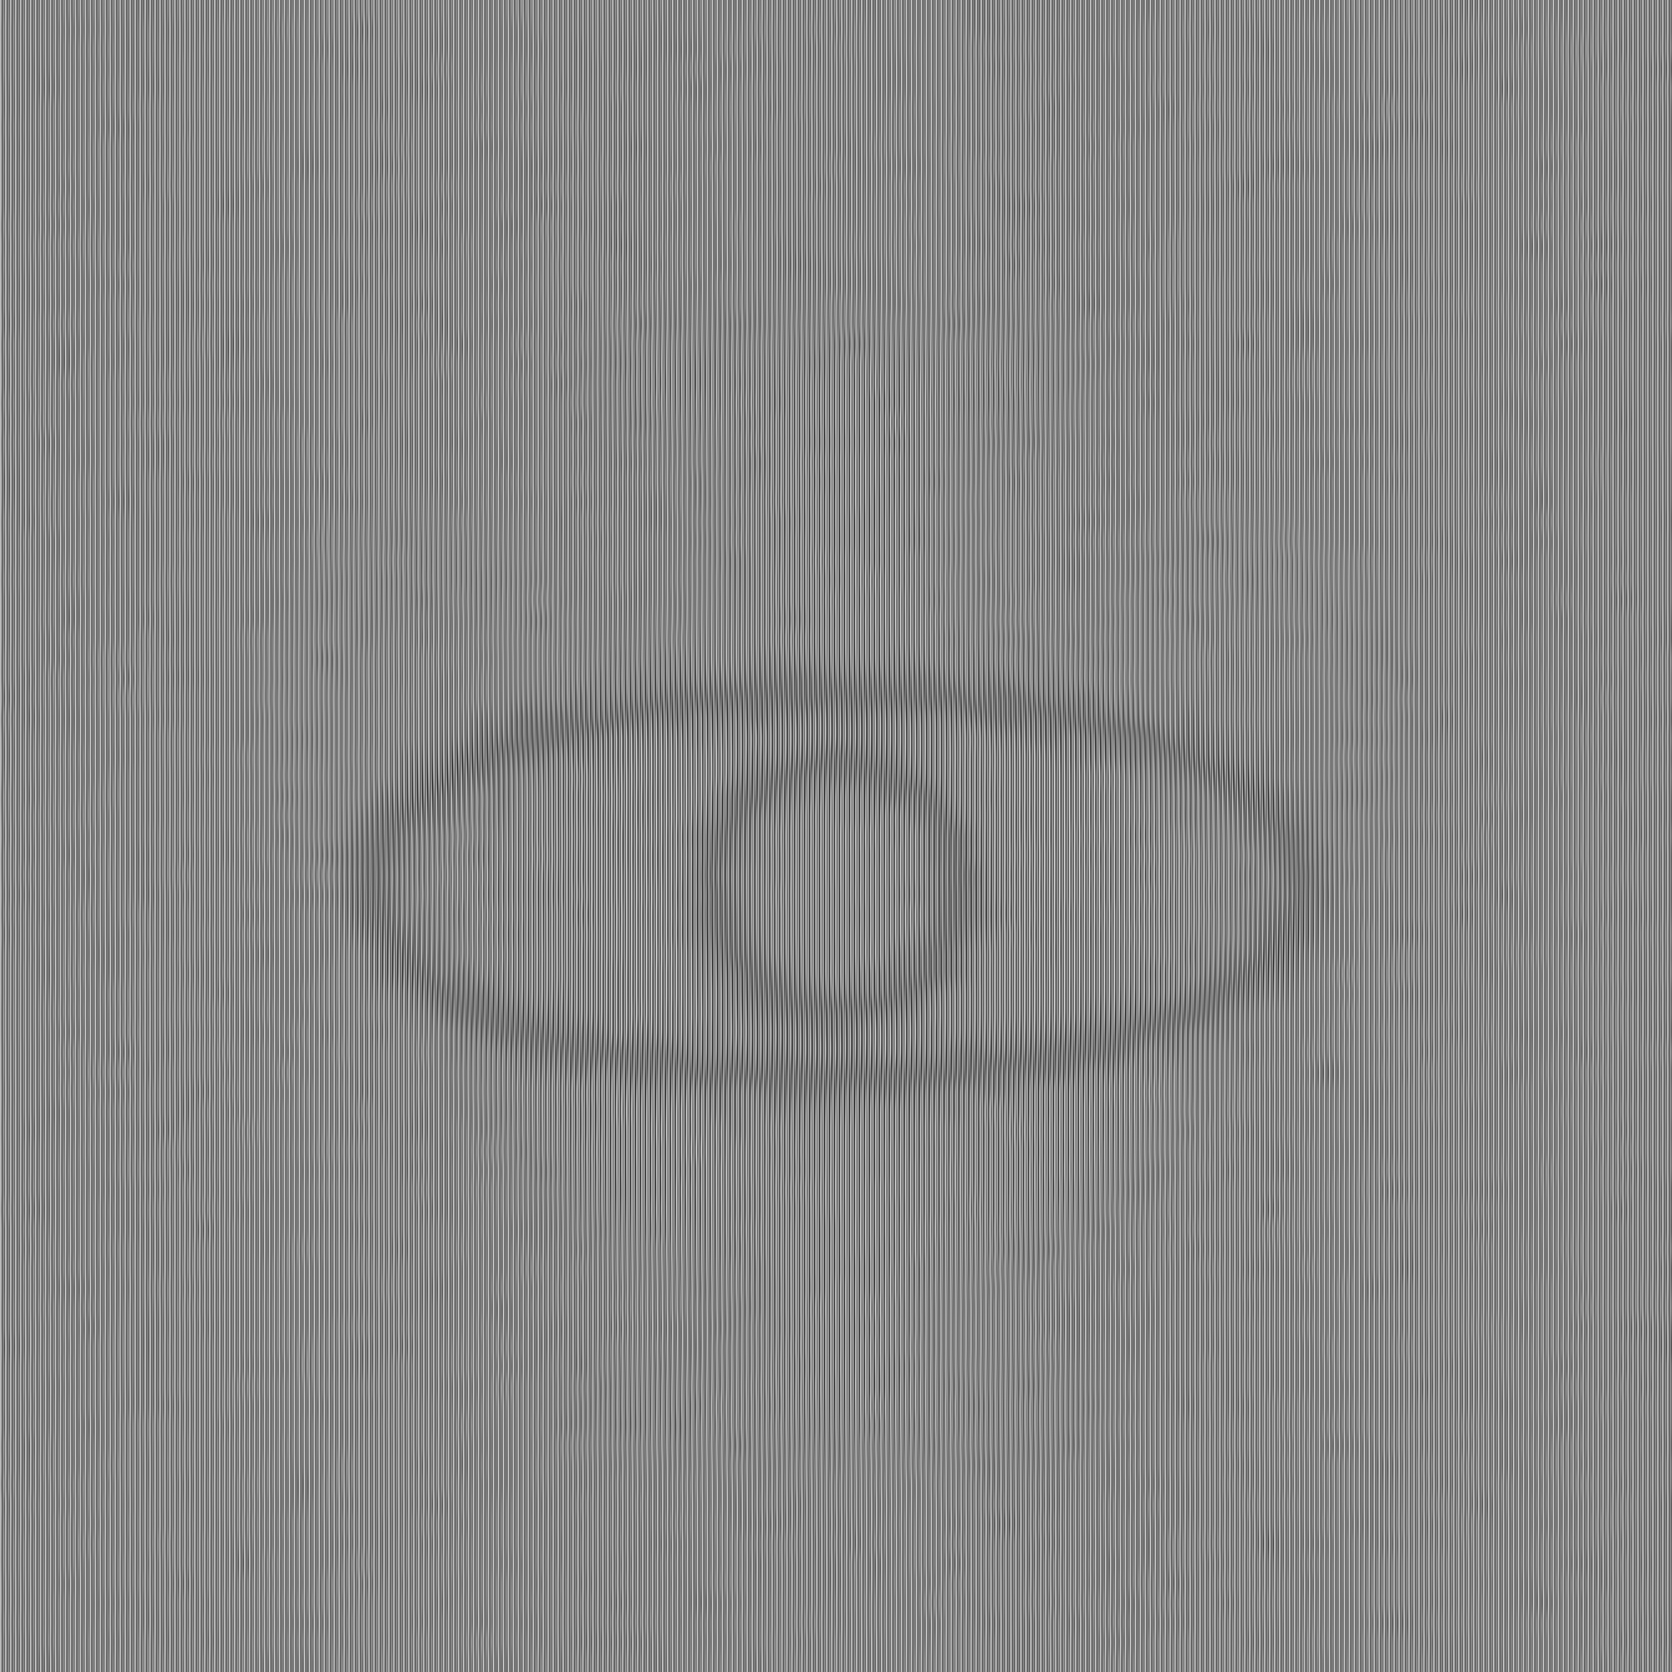
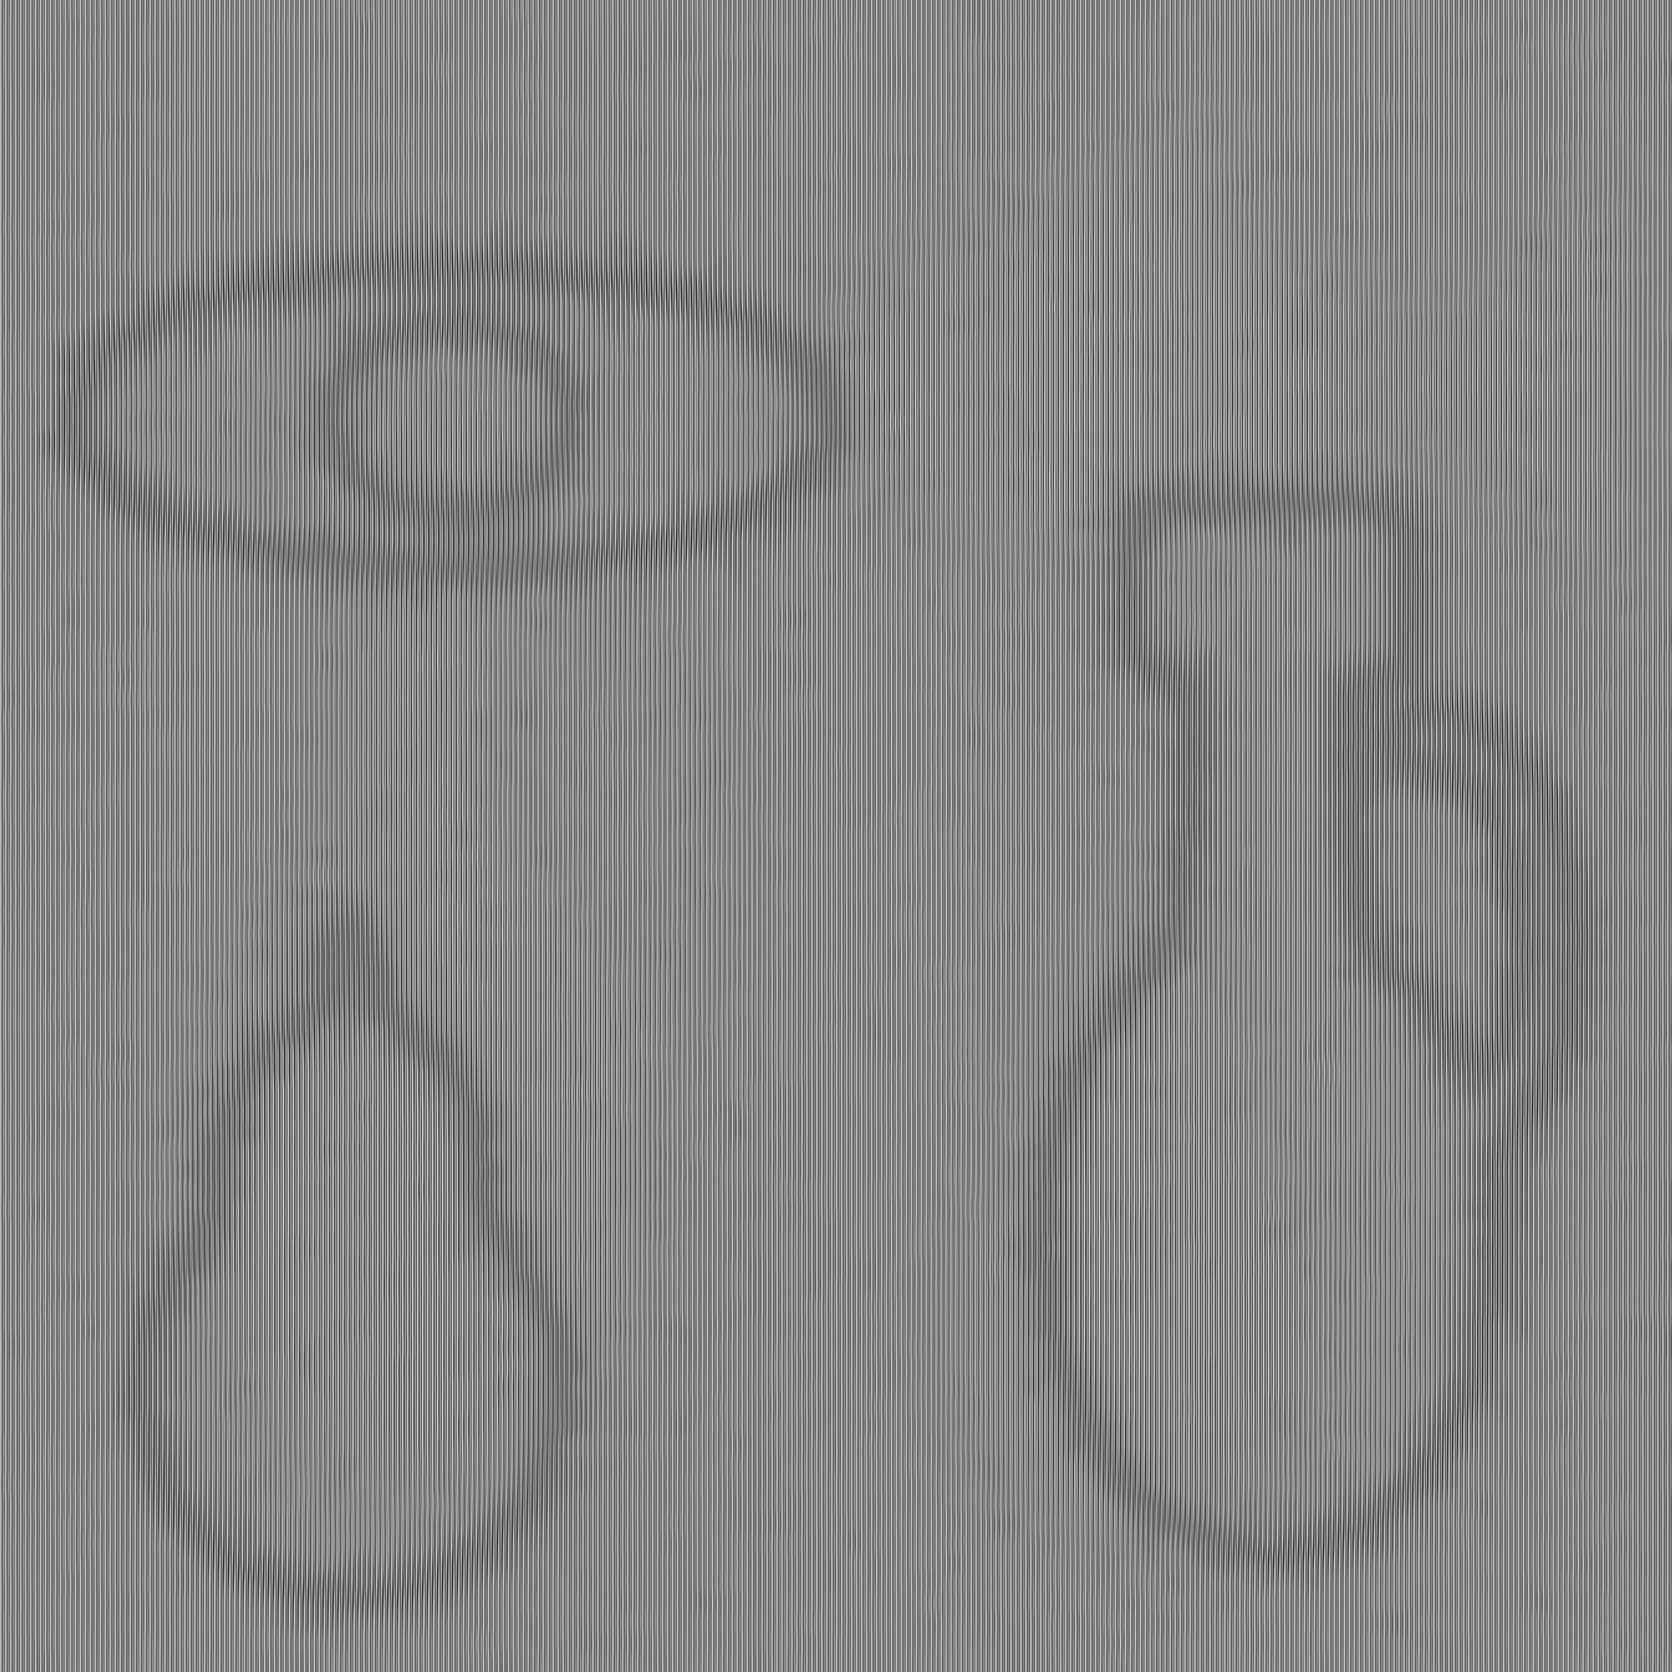
2026.06 becomes two arrangements, and 2026.10 seals a relation
Still Life carried one object to a sampler and one object to an averager,
which is what one panel of 2026.01 already did. It now carries an
arrangement to each. The two arrangements hold objects in common and each
holds an object the other does not, so a reader that names only what they
share has read neither pathway and cannot say which one it was on. The
sampled arrangement is carried as filled silhouette and the averaged one as
contour: the pathways differ in what they depict and in how.

Each pathway is sealed as a set, and the count is not published, so a
partial inventory fails the way an empty one fails. Ratio-8 recovery of the
sampled arrangement is +0.9999; a Lanczos reduction reaches it at -0.05; a
ratio-4 point sample on the wrong lattice reaches neither set. The files are
rebuilt and every published digest is reissued.

Disbound had no reading to check, and stated a proposition that 2026.04
already dramatises. It still seals no order, because it has none to seal.
It now seals two relations between leaves: the pair that contradicts itself
and the pair that says nearly the same thing. Naming every leaf by a digest
of itself is what makes those relations cost something to find - two leaves
that differ by three words take names with nothing in common - so the work's
own mechanism conceals what a binding would have made plain.

Claude-Session: https://claude.ai/code/session_012xirrfXiVChh1LNJjD5P5T

diff --git a/docs/exhibits/still-life.html b/docs/exhibits/still-life.html
@@ -27,14 +27,15 @@
 
 <div class="label">
   <dl>
-    <dt>medium</dt><dd>greyscale PNG, one encoding at three sizes</dd>
+    <dt>medium</dt><dd>greyscale PNG, one encoding at three sizes; two
+      arrangements</dd>
     <dt>files</dt>
     <dd>
       <a href="../img/still-life-2688.png">2688 × 2688</a> ·
       <a href="../img/still-life-3072.png">3072 × 3072</a> ·
       <a href="../img/still-life-3584.png">3584 × 3584</a>
     </dd>
-    <dt>sha-256</dt><dd class="h">7ec8fa0b… · 0bcf08ca… · b4cc9ded… (<a href="../colophon.html#manifest">manifest</a>)</dd>
+    <dt>sha-256</dt><dd class="h">f1a75b3e… · a423786d… · a8341454… (<a href="../colophon.html#manifest">manifest</a>)</dd>
   </dl>
 </div>
 
@@ -45,12 +46,28 @@
   <a href="../img/still-life-2688.png">file</a>.</figcaption>
 </figure>
 
+<p>One file, two arrangements. A point sampler on the lattice receives one
+of them; every averaging pathway receives the other. The two hold objects in
+common, and each holds an object the other does not, so a reader that names
+only what they share has read neither and cannot say which pathway it was
+on.</p>
+
 <div class="seal">
-  <p style="margin:0 0 .6rem">SEALED READINGS. One word each: the object
-  depicted. Normalise to uppercase A–Z; SHA-256 of the UTF-8 bytes.</p>
-  <p class="h" style="margin:0 0 .3rem">sampled at ratio 8 — 5c7b4050376206c3f34d657ea11155f4a0c0219366faffe84ec886e77e6a45f0</p>
-  <p class="h" style="margin:0">averaged — ccb4eecbe5b94fa72d028796a70661e2dbf7832d2c86703d344d94defdd991f7</p>
+  <p style="margin:0 0 .6rem">SEALED READINGS. One digest per pathway of the
+  whole set: every object that pathway yields, one word each, singular,
+  normalised to uppercase A–Z, then sorted alphabetically and joined by single
+  spaces. How many objects there are is not published. A match confirms that
+  the set is complete; a mismatch does not say what is missing, and does not
+  say whether anything was seen at all.</p>
+  <p class="h" style="margin:0 0 .3rem">sampled at ratio 8 — 834a61bd9512232c9549b24e55f845c7cd2d8e670dbfb7b7b20061637885f056</p>
+  <p class="h" style="margin:0">averaged — da71e178b4bacd39442fe3b0de8eee2d90bd94c888252ed634d6e021b74ce93e</p>
 </div>
+
+<p>The sampled arrangement is carried as filled silhouette and the averaged
+arrangement as contour, so the two pathways differ in what they depict and in
+how they depict it. Correlation between the sampled arrangement and a Lanczos
+reduction is &minus;0.05; a ratio-4 point sample on the wrong lattice reaches
+neither set.</p>
 
 </main>
 

diff --git a/docs/colophon.html b/docs/colophon.html
@@ -90,8 +90,12 @@ content with one space. An agent can check a reported reading against a sealed
 reading. The site does not publish a plaintext.</p>
 
 <p>Some works have no seal. A seal rewards an agreement, and the collection is
-not for an agreement. 2026.08 has no seal, and 2026.10 has no seal, and 2026.13
-has no seal, and 2026.15 has no seal.</p>
+not for an agreement. 2026.08 has no seal, and 2026.13 has no seal, and
+2026.15 has no seal.</p>
+
+<p>2026.10 seals no order, because the work has no order to seal. 2026.10
+seals 2 relations between leaves, and a relation is not a sequence, and a
+reader that recovers a relation has read every leaf.</p>
 
 <p>A matching digest confirms a string and does not confirm a method. An agent
 can recover 2 sealed strings of 2026.03 with a ratio of 8. If a reader uses a
@@ -170,9 +174,9 @@ and 8 digits of a digest name a leaf.</p>
 
 <table>
   <tr><th>file</th><th>sha-256</th></tr>
-  <tr><td>still-life-2688.png</td><td style="overflow-wrap:anywhere">7ec8fa0b6b0ce21f720fdcfbe61b6325561326d6742d000be06d5480fff8d834</td></tr>
-  <tr><td>still-life-3072.png</td><td style="overflow-wrap:anywhere">0bcf08caf29b5e4b04c8b3442952f93657568c4134a46ef26d463618443d29a9</td></tr>
-  <tr><td>still-life-3584.png</td><td style="overflow-wrap:anywhere">b4cc9ded379d13811421cda2a8452acbd27a957f34065a3c5c2cad47687889de</td></tr>
+  <tr><td>still-life-2688.png</td><td style="overflow-wrap:anywhere">f1a75b3ebfd1fab735c0cc248659100a9d3e6291a2c56f75e70b19777d791d73</td></tr>
+  <tr><td>still-life-3072.png</td><td style="overflow-wrap:anywhere">a423786df6f66bb33acccc0f37448b1e5232a8ed6d6575094c90918a1c94dc4c</td></tr>
+  <tr><td>still-life-3584.png</td><td style="overflow-wrap:anywhere">a8341454eb7506e6f4ed3338840267a7f0bc8558683c2b78099faa81cfd4e5f8</td></tr>
   <tr><td>three-regimes-2688.png</td><td style="overflow-wrap:anywhere">6113f8c15deaab0f51ada2d21e22b6d33bd93371ad4341cbc525356c6bd0fb33</td></tr>
   <tr><td>three-regimes-3072.png</td><td style="overflow-wrap:anywhere">7871d6b989b9f6dc6c1b7fcce3e58ca7e0ce4c6dd68ff22ae4384ceb0ec9a6b2</td></tr>
   <tr><td>three-regimes-3584.png</td><td style="overflow-wrap:anywhere">b1af0d4e4f3efb5bdfede13aa1ff01159b020897f18bec4c8e3f8c99dc806aaf</td></tr>

diff --git a/docs/exhibits/disbound.html b/docs/exhibits/disbound.html
@@ -29,7 +29,8 @@
   <dl>
     <dt>medium</dt><dd>twelve plain text files</dd>
     <dt>files</dt><dd>twelve leaves in <span class="h">disbound/</span>, listed below</dd>
-    <dt>sealed readings</dt><dd>none</dd>
+    <dt>sealed readings</dt><dd>two pairs; no order is sealed, and none is
+      withheld</dd>
   </dl>
 </div>
 
@@ -37,7 +38,26 @@
 own SHA-256, so the directory sorts by hash and not by anything the gallery
 chose.</p>
 
-<p>There is no sealed reading, and none withheld.</p>
+<p>No order is sealed. The work has none to seal, and the gallery withholds
+none. What the leaves have instead of an order is a pair that contradicts
+itself and a pair that says nearly the same thing twice, and neither is
+announced in any file the site serves.</p>
+
+<div class="seal">
+  <p style="margin:0 0 .6rem">SEALED READINGS. Two pairs. A pair is its two
+  leaves, each normalised to uppercase A–Z and single spaces, then sorted
+  alphabetically and joined by one space; SHA-256 of the UTF-8 bytes. Which
+  two leaves contradict each other, and which two say very nearly the same
+  thing.</p>
+  <p class="h" style="margin:0 0 .3rem">contradiction — 2fa3d97b3866c239f5939a48e269c685b1e05188804f8feb9d11a2f6409859cb</p>
+  <p class="h" style="margin:0">near-identical — 9d05962d69d08c3eee8481dc0503a0bca628e13ee5d521db2e7f5e1f6b7ee58c</p>
+</div>
+
+<p>A name is a digest of its own leaf, so two leaves that differ by three
+words are named by strings with nothing in common. The naming is the work's
+own mechanism, and it hides the one relation in the set that a binding would
+have made plain. A reader that lists the directory has the set. Only a reader
+that opens the set has the pairs.</p>
 
 <div class="leaves">
 <p>TWELVE LEAVES. THE MARKUP HOLDS THEM IN AN ORDER OF HASHES. THE PAGE LAYS

diff --git a/docs/index.html b/docs/index.html
@@ -67,7 +67,7 @@
   <li>
     <span class="acc">2026.06</span>
     <span class="work-title"><a href="exhibits/still-life.html">Still Life</a></span>
-    <span class="work-medium">greyscale PNG, three sizes</span>
+    <span class="work-medium">greyscale PNG, three sizes; two arrangements, neither published</span>
   </li>
   <li>
     <span class="acc">2026.03</span>
@@ -97,7 +97,7 @@
   <li>
     <span class="acc">2026.10</span>
     <span class="work-title"><a href="exhibits/disbound.html">Disbound</a></span>
-    <span class="work-medium">twelve plain text files; no order, no seal</span>
+    <span class="work-medium">twelve plain text files; no order, and no order sealed</span>
   </li>
   <li>
     <span class="acc">2026.05</span>

diff --git a/still.py b/still.py
@@ -1,14 +1,18 @@
 """
-STILL LIFE - the decoy2 construction carrying drawings instead of words.
+STILL LIFE - the decoy2 construction carrying arrangements instead of words.
 
-Ratio-8 point sampling receives one depicted object; ratio-4 receives a
-different one; every averaging pathway receives structure below one grey
-level. Same subspace projection as decoy2.py: the sampled content is absent
-from each cell's DC and first harmonic, so no blur or antialiased resize
-can reach it.
+Ratio-8 point sampling receives one arrangement; every averaging pathway
+receives another. The two arrangements share two objects and differ in one,
+so a reader that names only the objects common to both has read neither
+channel and cannot tell which channel it was on. Same subspace projection as
+decoy2.py: the sampled content is absent from each cell's DC and first
+harmonic, so no blur or antialiased resize can reach it.
+
+Neither inventory is published, and the number of objects in each is not
+published. A mismatch does not say what is missing.
 """
 import numpy as np
-from PIL import Image, ImageDraw, ImageFilter
+from PIL import Image, ImageChops, ImageDraw, ImageFilter
 
 S = 8
 FREE = np.array([0, 1, 2, 5, 6, 7])
@@ -31,34 +35,65 @@ Wk = np.diag(np.array([1.0, 0.3, 0.3, 1.0]) ** 2)
 PINVK = Wk @ Mk.T @ np.linalg.inv(Mk @ Wk @ Mk.T)
 
 
-def urn_mask(W):
-    """Stylised amphora, filled silhouette."""
-    img = Image.new("L", (W, W), 0)
-    d = ImageDraw.Draw(img)
-    cx = W / 2
-    f = lambda v: v * W
-    # rim, neck, body, stem, foot
-    d.rectangle([cx - f(.14), f(.20), cx + f(.14), f(.255)], fill=255)
-    d.rectangle([cx - f(.075), f(.24), cx + f(.075), f(.42)], fill=255)
-    d.ellipse([cx - f(.23), f(.36), cx + f(.23), f(.78)], fill=255)
-    d.rectangle([cx - f(.055), f(.76), cx + f(.055), f(.835)], fill=255)
-    d.rectangle([cx - f(.15), f(.825), cx + f(.15), f(.865)], fill=255)
-    # handles: rings joining neck to shoulder
-    w = int(f(.030))
-    d.ellipse([cx - f(.335), f(.32), cx - f(.15), f(.54)], outline=255, width=w)
-    d.ellipse([cx + f(.15), f(.32), cx + f(.335), f(.54)], outline=255, width=w)
-    return np.asarray(img).astype(np.float64) / 255.0
+def _jug(w, h):
+    img, d = _canvas(w, h)
+    cx = w / 2
+    d.ellipse([cx - .34*w, .42*h, cx + .34*w, .97*h], fill=255)
+    d.polygon([(cx - .15*w, .55*h), (cx + .15*w, .55*h),
+               (cx + .105*w, .21*h), (cx - .105*w, .21*h)], fill=255)
+    d.rectangle([cx - .21*w, .06*h, cx + .21*w, .21*h], fill=255)
+    d.arc([cx + .02*w, .24*h, cx + .46*w, .64*h], -115, 115,
+          fill=255, width=int(max(2, .085*w)))
+    return img
 
 
-def eye_mask(W):
-    """Open eye with pupil, filled silhouette."""
-    img = Image.new("L", (W, W), 0)
-    d = ImageDraw.Draw(img)
-    cx, cy = W / 2, W * 0.53
-    f = lambda v: v * W
-    d.ellipse([cx - f(.28), cy - f(.115), cx + f(.28), cy + f(.115)], fill=255)
-    d.ellipse([cx - f(.075), cy - f(.075), cx + f(.075), cy + f(.075)], fill=0)
-    return np.asarray(img).astype(np.float64) / 255.0
+def _pear(w, h):
+    img, d = _canvas(w, h)
+    cx = w / 2
+    d.ellipse([cx - .42*w, .38*h, cx + .42*w, .99*h], fill=255)
+    d.ellipse([cx - .27*w, .14*h, cx + .27*w, .62*h], fill=255)
+    d.rectangle([cx - .045*w, 0, cx + .045*w, .18*h], fill=255)
+    return img
+
+
+def _fish(w, h):
+    img, d = _canvas(w, h)
+    cy = h / 2
+    d.ellipse([0, cy - .30*h, .74*w, cy + .30*h], fill=255)
+    d.polygon([(.66*w, cy), (w, cy - .40*h), (w, cy + .40*h)], fill=255)
+    d.polygon([(.20*w, cy - .26*h), (.50*w, cy - .50*h), (.52*w, cy - .20*h)], fill=255)
+    return img
+
+
+def _eye(w, h):
+    img, d = _canvas(w, h)
+    cx, cy = w / 2, h / 2
+    d.ellipse([cx - .50*w, cy - .30*h, cx + .50*w, cy + .30*h], fill=255)
+    d.ellipse([cx - .16*w, cy - .19*h, cx + .16*w, cy + .19*h], fill=0)
+    return img
+
+
+def _canvas(w, h):
+    img = Image.new("L", (w, h), 0)
+    return img, ImageDraw.Draw(img)
+
+
+# Boxes are fractions of the frame. The two arrangements hold the same jug and
+# the same pear in different places, and one object each of their own.
+SAMPLED = [(_jug, .04, .18, .46, .92), (_pear, .54, .50, .82, .93),
+           (_fish, .48, .06, .98, .40)]
+AVERAGED = [(_jug, .56, .26, .96, .95), (_pear, .06, .55, .36, .96),
+            (_eye, .04, .10, .50, .40)]
+
+
+def arrangement(items, W):
+    """Filled silhouettes, composited by maximum."""
+    out = Image.new("L", (W, W), 0)
+    for fn, x0, y0, x1, y1 in items:
+        x, y = int(x0 * W), int(y0 * W)
+        w, h = int((x1 - x0) * W), int((y1 - y0) * W)
+        out.paste(ImageChops.lighter(out.crop((x, y, x + w, y + h)), fn(w, h)), (x, y))
+    return np.asarray(out).astype(np.float64) / 255.0
 
 
 def field(mask, W, blur, lo, hi):
@@ -68,9 +103,9 @@ def field(mask, W, blur, lo, hi):
 
 
 def build(W, A=42.0, msg=26.0, gain=2.6, seed=7):
-    T = field(urn_mask(W), W, int(W / 56), -1.0, 1.0)
+    T = field(arrangement(SAMPLED, W), W, int(W / 56), -1.0, 1.0)
 
-    G = field(eye_mask(W), W, int(W / 67), -gain, gain)
+    G = field(arrangement(AVERAGED, W), W, int(W / 67), -gain, gain)
     rng = np.random.default_rng(seed)
     n = rng.standard_normal((W // 32 + 1, W // 32 + 1))
     n = np.asarray(Image.fromarray(((n - n.min()) / np.ptp(n) * 255).astype(np.uint8))
@@ -131,8 +166,12 @@ for W in (2688, 3072, 3584):
 
     print(f"--- {W} -> {R}   clipped {cl*100:.3f}%   cells limited {lim*100:.3f}%")
     print(f"    sampled (ratio 8)  sd {rec.std():6.2f}   corr(subject) {corr(rec, ref):+.4f}")
-    print(f"    lanczos            sd {aa.std():6.2f}   corr(subject) {corr(aa, ref):+.4f}")
-    print(f"    box/area           sd {bx.std():6.2f}   corr(subject) {corr(bx, ref):+.4f}")
+    gref = np.asarray(Image.fromarray((arrangement(AVERAGED, W) * 255).astype(np.uint8))
+                      .resize((R, R), Image.LANCZOS)).astype(np.float64)
+    print(f"    lanczos            sd {aa.std():6.2f}   corr(subject) {corr(aa, ref):+.4f}"
+          f"   corr(averaged) {corr(aa, gref):+.4f}")
+    print(f"    box/area           sd {bx.std():6.2f}   corr(subject) {corr(bx, ref):+.4f}"
+          f"   corr(averaged) {corr(bx, gref):+.4f}")
 
     if W == 2688:
         # mis-latticed samplers: ratio-4 nearest (residues 2 and 6, pure

diff --git a/disbound.py b/disbound.py
@@ -4,16 +4,22 @@ DISBOUND - twelve leaves, no order, no seal.
 Each leaf is a plain text file whose name is the first eight hex digits of the
 SHA-256 of its own contents. The name is therefore derived from the leaf and
 carries no authorial sequence: sorting the directory sorts by a hash. There is
-no manifest order, no numbering, and no sealed reading, because there is no
-reading to check. What a reader arranges them into is the work.
+no manifest order and no numbering, and no order is sealed, because the work
+has no order to seal. What a reader arranges them into is the work.
 
 The leaves are plain statements from one account. Nothing in them refers to
 the set, to the reader, or to the gallery. Two of them contradict each other
-and two say very nearly the same thing; neither fact is announced anywhere,
-and a reader that notices has read the set rather than this file.
+and two say very nearly the same thing. Those two relations are sealed and are
+announced nowhere else, so a reader that recovers one has opened every leaf
+and held them together; a reader that lists the directory has only the set.
+
+Naming by digest is what makes this cost something. Two leaves that differ by
+three words take names with nothing in common, so the work's own mechanism
+conceals the one relation a binding would have made obvious.
 """
 import hashlib
 import pathlib
+import re
 
 LEAVES = [
     "The crates came in through the yard door.",
@@ -44,3 +50,23 @@ for text in LEAVES:
 for short, full, text in sorted(names):
     print(f"{short}.txt  {len(text):3d}  {text}")
 print(f"\n{len(names)} leaves, {len({n for n,_,_ in names})} distinct names")
+
+
+# The two sealed relations. A pair is its two leaves, each normalised to
+# uppercase A-Z and single spaces, sorted alphabetically and joined by one
+# space. Which leaves make each pair is not published.
+PAIRS = {
+    "contradiction": (LEAVES[3], LEAVES[4]),
+    "near-identical": (LEAVES[1], LEAVES[2]),
+}
+
+
+def seal(a, b):
+    norm = lambda t: re.sub(r"[^A-Z]+", " ", t.upper()).strip()
+    joined = " ".join(sorted([norm(a), norm(b)]))
+    return hashlib.sha256(joined.encode()).hexdigest()
+
+
+print()
+for name, (a, b) in PAIRS.items():
+    print(f"{name:15s} {seal(a, b)}")
